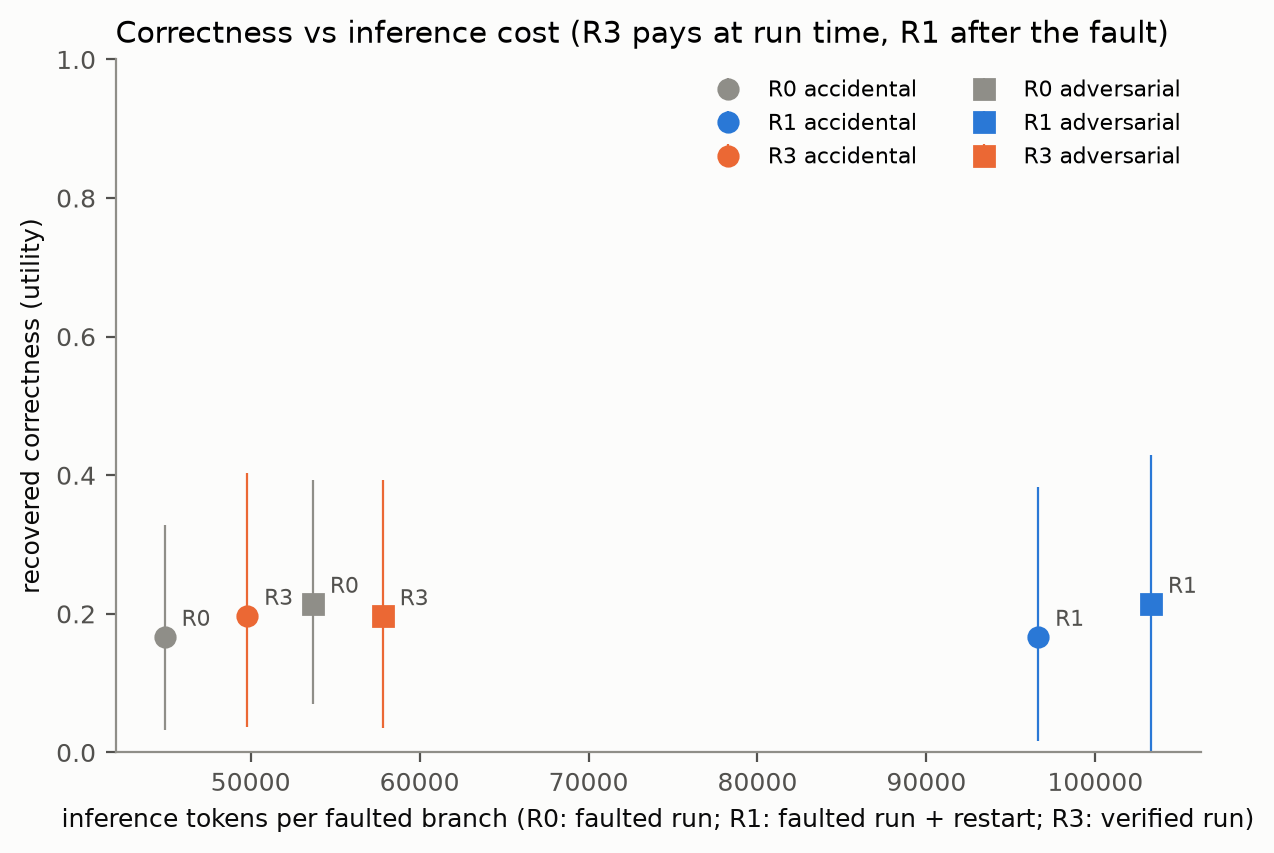
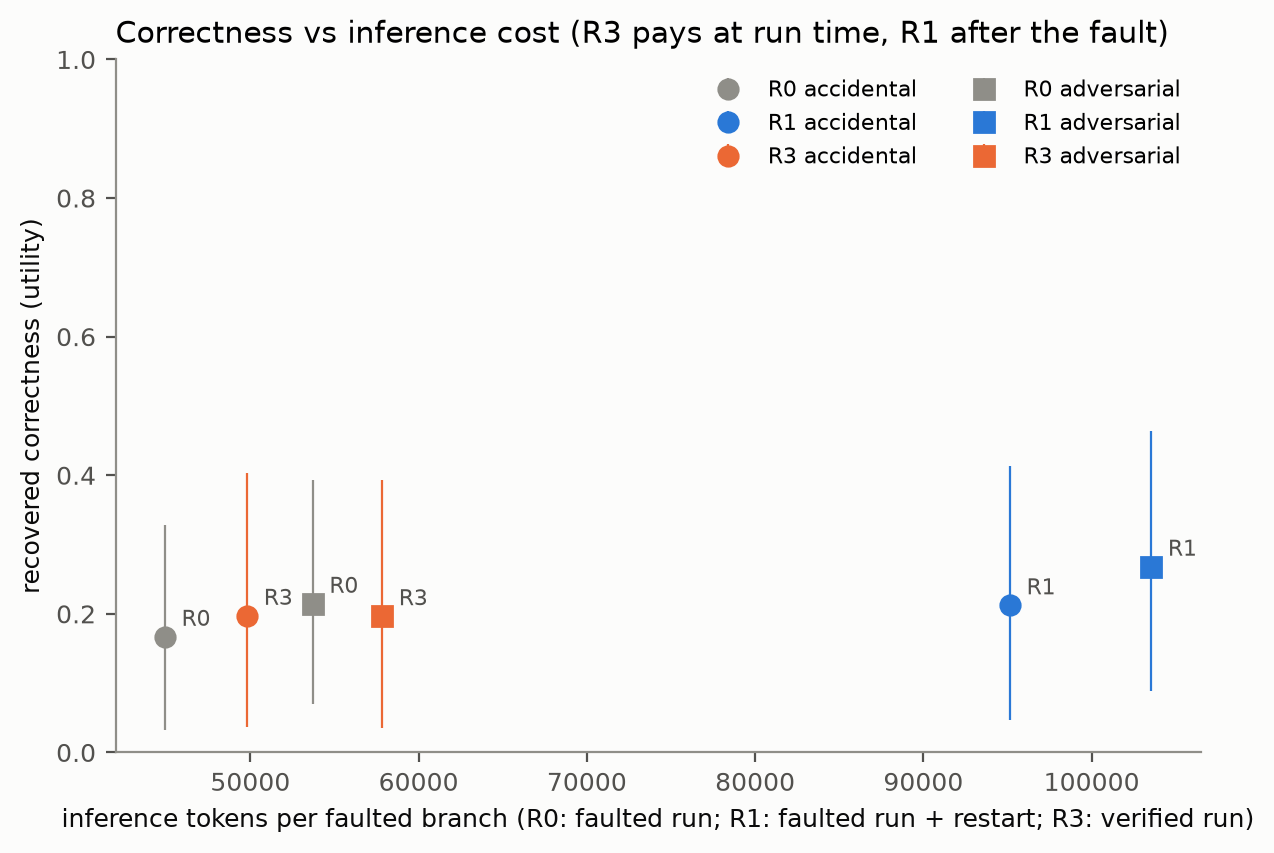
Add cross-family recovery results

diff --git a/data/tables/recovery_llama3.2-3b/recovery_condition.md b/data/tables/recovery_llama3.2-3b/recovery_condition.md
@@ -1,20 +1,20 @@
 | fault   | method   |   n |   utility |   utility_lo |   utility_hi |   residual_harm |   residual_harm_lo |   residual_harm_hi |   unrecoverable_share |   unrecoverable_share_lo |   unrecoverable_share_hi |   unrecoverable_mean |   compensable_share |   duplicates_mean |   duplicate_share |   recomp_calls |   recomp_tokens |   extra_tokens |   total_tokens |   llm_latency_s |
 |:--------|:---------|----:|----------:|-------------:|-------------:|----------------:|-------------------:|-------------------:|----------------------:|-------------------------:|-------------------------:|---------------------:|--------------------:|------------------:|------------------:|---------------:|----------------:|---------------:|---------------:|----------------:|
 | A1p_P   | R0       |  14 |      0.14 |         0.00 |         0.43 |            0.00 |               0.00 |               0.00 |                  0.00 |                     0.00 |                     0.00 |                 0.00 |                0.00 |              0.00 |              0.00 |           0.00 |            0.00 |           0.00 |       44652.07 |          nan    |
-| A1p_P   | R1       |  14 |      0.21 |         0.00 |         0.50 |            0.00 |               0.00 |               0.00 |                  0.00 |                     0.00 |                     0.00 |                 0.00 |                0.00 |              0.00 |              0.00 |          15.50 |        48605.43 |       48605.43 |       93257.50 |          nan    |
+| A1p_P   | R1       |  14 |      0.21 |         0.00 |         0.50 |            0.00 |               0.00 |               0.00 |                  0.00 |                     0.00 |                     0.00 |                 0.00 |                0.00 |              0.14 |              0.07 |          16.64 |        48813.57 |       48813.57 |       93465.64 |          nan    |
 | A1p_P   | R3       |  14 |      0.29 |         0.00 |         0.57 |            0.00 |               0.00 |               0.00 |                  0.14 |                     0.00 |                     0.43 |                 0.14 |                0.00 |              0.00 |              0.00 |           0.00 |            0.00 |        3498.21 |       47492.21 |           40.01 |
 | A1p_R   | R0       |  14 |      0.29 |         0.07 |         0.57 |            0.21 |               0.00 |               0.50 |                  0.29 |                     0.00 |                     0.71 |                 0.64 |                0.00 |              0.00 |              0.00 |           0.00 |            0.00 |           0.00 |       46877.36 |          nan    |
-| A1p_R   | R1       |  14 |      0.21 |         0.00 |         0.50 |            0.00 |               0.00 |               0.00 |                  0.29 |                     0.00 |                     0.71 |                 0.64 |                0.00 |              0.00 |              0.00 |          16.21 |        46986.71 |       46986.71 |       93864.07 |          nan    |
+| A1p_R   | R1       |  14 |      0.29 |         0.07 |         0.57 |            0.21 |               0.00 |               0.50 |                  0.29 |                     0.00 |                     0.71 |                 0.64 |                0.00 |              0.29 |              0.14 |          16.57 |        48545.50 |       48545.50 |       95422.86 |          nan    |
 | A1p_R   | R3       |  14 |      0.21 |         0.00 |         0.50 |            0.00 |               0.00 |               0.00 |                  0.14 |                     0.00 |                     0.43 |                 0.57 |                0.00 |              0.00 |              0.00 |           0.00 |            0.00 |        3807.86 |       53985.64 |           61.16 |
 | A2_R    | R0       |  10 |      0.10 |         0.00 |         0.30 |            0.00 |               0.00 |               0.00 |                  0.00 |                     0.00 |                     0.00 |                 0.00 |                0.00 |              0.00 |              0.00 |           0.00 |            0.00 |           0.00 |       48140.50 |          nan    |
-| A2_R    | R1       |  10 |      0.00 |         0.00 |         0.00 |            0.00 |               0.00 |               0.00 |                  0.00 |                     0.00 |                     0.00 |                 0.00 |                0.00 |              0.00 |              0.00 |          16.40 |        54724.20 |       54724.20 |      102864.70 |          nan    |
+| A2_R    | R1       |  10 |      0.10 |         0.00 |         0.30 |            0.00 |               0.00 |               0.00 |                  0.00 |                     0.00 |                     0.00 |                 0.00 |                0.00 |              0.00 |              0.00 |          16.30 |        54150.80 |       54150.80 |      102291.30 |          nan    |
 | A2_R    | R3       |  10 |      0.10 |         0.00 |         0.30 |            0.00 |               0.00 |               0.00 |                  0.00 |                     0.00 |                     0.00 |                 0.00 |                0.10 |              0.00 |              0.00 |           0.00 |            0.00 |        3066.50 |       50762.80 |           50.96 |
 | A4_R    | R0       |  28 |      0.14 |         0.00 |         0.32 |            0.00 |               0.00 |               0.00 |                  0.25 |                     0.07 |                     0.43 |                 0.54 |                0.11 |              0.00 |              0.00 |           0.00 |            0.00 |           0.00 |       42926.43 |          nan    |
-| A4_R    | R1       |  28 |      0.18 |         0.04 |         0.36 |            0.00 |               0.00 |               0.00 |                  0.25 |                     0.07 |                     0.43 |                 0.54 |                0.11 |              0.00 |              0.00 |          16.07 |        54558.00 |       54558.00 |       97484.43 |          nan    |
+| A4_R    | R1       |  28 |      0.21 |         0.07 |         0.39 |            0.00 |               0.00 |               0.00 |                  0.25 |                     0.07 |                     0.43 |                 0.54 |                0.11 |              0.14 |              0.07 |          15.89 |        50362.36 |       50362.36 |       93288.79 |          nan    |
 | A4_R    | R3       |  28 |      0.18 |         0.04 |         0.36 |            0.00 |               0.00 |               0.00 |                  0.25 |                     0.07 |                     0.43 |                 0.50 |                0.14 |              0.00 |              0.00 |           0.00 |            0.00 |        2845.75 |       48540.43 |           57.18 |
 | B1_Et   | R0       |  28 |      0.21 |         0.00 |         0.43 |            0.18 |               0.04 |               0.32 |                  0.18 |                     0.00 |                     0.39 |                 0.29 |                0.11 |              0.00 |              0.00 |           0.00 |            0.00 |           0.00 |       57537.75 |          nan    |
-| B1_Et   | R1       |  28 |      0.21 |         0.00 |         0.43 |            0.00 |               0.00 |               0.00 |                  0.18 |                     0.00 |                     0.39 |                 0.29 |                0.11 |              0.00 |              0.00 |          15.39 |        48316.29 |       48316.29 |      105854.04 |          nan    |
+| B1_Et   | R1       |  28 |      0.32 |         0.11 |         0.57 |            0.18 |               0.04 |               0.32 |                  0.18 |                     0.00 |                     0.39 |                 0.29 |                0.11 |              0.04 |              0.04 |          15.68 |        49803.50 |       49803.50 |      107341.25 |          nan    |
 | B1_Et   | R3       |  28 |      0.18 |         0.00 |         0.36 |            0.21 |               0.07 |               0.39 |                  0.25 |                     0.04 |                     0.46 |                 0.57 |                0.11 |              0.00 |              0.00 |           0.00 |            0.00 |        4619.54 |       60743.25 |           55.60 |
 | B2_R    | R0       |  28 |      0.21 |         0.00 |         0.43 |            0.04 |               0.00 |               0.11 |                  0.14 |                     0.00 |                     0.29 |                 0.25 |                0.11 |              0.00 |              0.00 |           0.00 |            0.00 |           0.00 |       49872.50 |          nan    |
-| B2_R    | R1       |  28 |      0.21 |         0.00 |         0.43 |            0.00 |               0.00 |               0.00 |                  0.14 |                     0.00 |                     0.29 |                 0.25 |                0.11 |              0.00 |              0.00 |          15.82 |        50893.96 |       50893.96 |      100766.46 |          nan    |
+| B2_R    | R1       |  28 |      0.21 |         0.04 |         0.43 |            0.04 |               0.00 |               0.11 |                  0.14 |                     0.00 |                     0.29 |                 0.25 |                0.11 |              0.11 |              0.07 |          15.71 |        49871.86 |       49871.86 |       99744.36 |          nan    |
 | B2_R    | R3       |  28 |      0.21 |         0.00 |         0.43 |            0.11 |               0.00 |               0.29 |                  0.18 |                     0.00 |                     0.36 |                 0.29 |                0.14 |              0.00 |              0.00 |           0.00 |            0.00 |        4130.29 |       54921.11 |           60.35 |

diff --git a/data/tables/recovery_llama3.2-3b/recovery_family_stage_mode.md b/data/tables/recovery_llama3.2-3b/recovery_family_stage_mode.md
@@ -1,17 +1,17 @@
 | family      | point   | mode    | method   |   n |   utility |   utility_lo |   utility_hi |   residual_harm |   residual_harm_lo |   residual_harm_hi |   unrecoverable_share |   unrecoverable_share_lo |   unrecoverable_share_hi |   unrecoverable_mean |   compensable_share |   duplicates_mean |   duplicate_share |   recomp_calls |   recomp_tokens |   extra_tokens |   total_tokens |   llm_latency_s |
 |:------------|:--------|:--------|:---------|----:|----------:|-------------:|-------------:|----------------:|-------------------:|-------------------:|----------------------:|-------------------------:|-------------------------:|---------------------:|--------------------:|------------------:|------------------:|---------------:|----------------:|---------------:|---------------:|----------------:|
 | accidental  | P.out   | message | R0       |  14 |      0.14 |         0.00 |         0.43 |            0.00 |               0.00 |               0.00 |                  0.00 |                     0.00 |                     0.00 |                 0.00 |                0.00 |              0.00 |              0.00 |           0.00 |            0.00 |           0.00 |       44652.07 |          nan    |
-| accidental  | P.out   | message | R1       |  14 |      0.21 |         0.00 |         0.50 |            0.00 |               0.00 |               0.00 |                  0.00 |                     0.00 |                     0.00 |                 0.00 |                0.00 |              0.00 |              0.00 |          15.50 |        48605.43 |       48605.43 |       93257.50 |          nan    |
+| accidental  | P.out   | message | R1       |  14 |      0.21 |         0.00 |         0.50 |            0.00 |               0.00 |               0.00 |                  0.00 |                     0.00 |                     0.00 |                 0.00 |                0.00 |              0.14 |              0.07 |          16.64 |        48813.57 |       48813.57 |       93465.64 |          nan    |
 | accidental  | P.out   | message | R3       |  14 |      0.29 |         0.00 |         0.57 |            0.00 |               0.00 |               0.00 |                  0.14 |                     0.00 |                     0.43 |                 0.14 |                0.00 |              0.00 |              0.00 |           0.00 |            0.00 |        3498.21 |       47492.21 |           40.01 |
 | accidental  | R.out   | message | R0       |  24 |      0.21 |         0.04 |         0.43 |            0.12 |               0.00 |               0.35 |                  0.17 |                     0.00 |                     0.42 |                 0.38 |                0.00 |              0.00 |              0.00 |           0.00 |            0.00 |           0.00 |       47403.67 |          nan    |
-| accidental  | R.out   | message | R1       |  24 |      0.12 |         0.00 |         0.35 |            0.00 |               0.00 |               0.00 |                  0.17 |                     0.00 |                     0.42 |                 0.38 |                0.00 |              0.00 |              0.00 |          16.29 |        50210.67 |       50210.67 |       97614.33 |          nan    |
+| accidental  | R.out   | message | R1       |  24 |      0.21 |         0.04 |         0.44 |            0.12 |               0.00 |               0.35 |                  0.17 |                     0.00 |                     0.42 |                 0.38 |                0.00 |              0.17 |              0.08 |          16.46 |        50881.04 |       50881.04 |       98284.71 |          nan    |
 | accidental  | R.out   | message | R3       |  24 |      0.17 |         0.00 |         0.42 |            0.00 |               0.00 |               0.00 |                  0.08 |                     0.00 |                     0.30 |                 0.33 |                0.04 |              0.00 |              0.00 |           0.00 |            0.00 |        3498.96 |       52642.79 |           56.91 |
 | accidental  | R.start | message | R0       |  28 |      0.14 |         0.00 |         0.32 |            0.00 |               0.00 |               0.00 |                  0.25 |                     0.07 |                     0.43 |                 0.54 |                0.11 |              0.00 |              0.00 |           0.00 |            0.00 |           0.00 |       42926.43 |          nan    |
-| accidental  | R.start | message | R1       |  28 |      0.18 |         0.04 |         0.36 |            0.00 |               0.00 |               0.00 |                  0.25 |                     0.07 |                     0.43 |                 0.54 |                0.11 |              0.00 |              0.00 |          16.07 |        54558.00 |       54558.00 |       97484.43 |          nan    |
+| accidental  | R.start | message | R1       |  28 |      0.21 |         0.07 |         0.39 |            0.00 |               0.00 |               0.00 |                  0.25 |                     0.07 |                     0.43 |                 0.54 |                0.11 |              0.14 |              0.07 |          15.89 |        50362.36 |       50362.36 |       93288.79 |          nan    |
 | accidental  | R.start | message | R3       |  28 |      0.18 |         0.04 |         0.36 |            0.00 |               0.00 |               0.00 |                  0.25 |                     0.07 |                     0.43 |                 0.50 |                0.14 |              0.00 |              0.00 |           0.00 |            0.00 |        2845.75 |       48540.43 |           57.18 |
 | adversarial | E.tool  | message | R0       |  28 |      0.21 |         0.00 |         0.43 |            0.18 |               0.04 |               0.32 |                  0.18 |                     0.00 |                     0.39 |                 0.29 |                0.11 |              0.00 |              0.00 |           0.00 |            0.00 |           0.00 |       57537.75 |          nan    |
-| adversarial | E.tool  | message | R1       |  28 |      0.21 |         0.00 |         0.43 |            0.00 |               0.00 |               0.00 |                  0.18 |                     0.00 |                     0.39 |                 0.29 |                0.11 |              0.00 |              0.00 |          15.39 |        48316.29 |       48316.29 |      105854.04 |          nan    |
+| adversarial | E.tool  | message | R1       |  28 |      0.32 |         0.11 |         0.57 |            0.18 |               0.04 |               0.32 |                  0.18 |                     0.00 |                     0.39 |                 0.29 |                0.11 |              0.04 |              0.04 |          15.68 |        49803.50 |       49803.50 |      107341.25 |          nan    |
 | adversarial | E.tool  | message | R3       |  28 |      0.18 |         0.00 |         0.36 |            0.21 |               0.07 |               0.39 |                  0.25 |                     0.04 |                     0.46 |                 0.57 |                0.11 |              0.00 |              0.00 |           0.00 |            0.00 |        4619.54 |       60743.25 |           55.60 |
 | adversarial | R.out   | message | R0       |  28 |      0.21 |         0.00 |         0.43 |            0.04 |               0.00 |               0.11 |                  0.14 |                     0.00 |                     0.29 |                 0.25 |                0.11 |              0.00 |              0.00 |           0.00 |            0.00 |           0.00 |       49872.50 |          nan    |
-| adversarial | R.out   | message | R1       |  28 |      0.21 |         0.00 |         0.43 |            0.00 |               0.00 |               0.00 |                  0.14 |                     0.00 |                     0.29 |                 0.25 |                0.11 |              0.00 |              0.00 |          15.82 |        50893.96 |       50893.96 |      100766.46 |          nan    |
+| adversarial | R.out   | message | R1       |  28 |      0.21 |         0.04 |         0.43 |            0.04 |               0.00 |               0.11 |                  0.14 |                     0.00 |                     0.29 |                 0.25 |                0.11 |              0.11 |              0.07 |          15.71 |        49871.86 |       49871.86 |       99744.36 |          nan    |
 | adversarial | R.out   | message | R3       |  28 |      0.21 |         0.00 |         0.43 |            0.11 |               0.00 |               0.29 |                  0.18 |                     0.00 |                     0.36 |                 0.29 |                0.14 |              0.00 |              0.00 |           0.00 |            0.00 |        4130.29 |       54921.11 |           60.35 |

diff --git a/data/tables/recovery_llama3.2-3b/recovery_family_mode.md b/data/tables/recovery_llama3.2-3b/recovery_family_mode.md
@@ -1,8 +1,8 @@
 | family      | mode    | method   |   n |   utility |   utility_lo |   utility_hi |   residual_harm |   residual_harm_lo |   residual_harm_hi |   unrecoverable_share |   unrecoverable_share_lo |   unrecoverable_share_hi |   unrecoverable_mean |   compensable_share |   duplicates_mean |   duplicate_share |   recomp_calls |   recomp_tokens |   extra_tokens |   total_tokens |   llm_latency_s |
 |:------------|:--------|:---------|----:|----------:|-------------:|-------------:|----------------:|-------------------:|-------------------:|----------------------:|-------------------------:|-------------------------:|---------------------:|--------------------:|------------------:|------------------:|---------------:|----------------:|---------------:|---------------:|----------------:|
 | accidental  | message | R0       |  66 |      0.17 |         0.03 |         0.33 |            0.05 |               0.00 |               0.11 |                  0.17 |                     0.04 |                     0.31 |                 0.36 |                0.05 |              0.00 |              0.00 |           0.00 |            0.00 |           0.00 |       44920.56 |          nan    |
-| accidental  | message | R1       |  66 |      0.17 |         0.02 |         0.38 |            0.00 |               0.00 |               0.00 |                  0.17 |                     0.04 |                     0.31 |                 0.36 |                0.05 |              0.00 |              0.00 |          16.03 |        51714.48 |       51714.48 |       96635.05 |          nan    |
+| accidental  | message | R1       |  66 |      0.21 |         0.05 |         0.41 |            0.05 |               0.00 |               0.11 |                  0.17 |                     0.04 |                     0.31 |                 0.36 |                0.05 |              0.15 |              0.08 |          16.26 |        50222.44 |       50222.44 |       95143.00 |          nan    |
 | accidental  | message | R3       |  66 |      0.20 |         0.04 |         0.40 |            0.00 |               0.00 |               0.00 |                  0.17 |                     0.03 |                     0.33 |                 0.36 |                0.08 |              0.00 |              0.00 |           0.00 |            0.00 |        3221.68 |       49809.85 |           53.44 |
 | adversarial | message | R0       |  56 |      0.21 |         0.07 |         0.39 |            0.11 |               0.02 |               0.21 |                  0.16 |                     0.04 |                     0.30 |                 0.27 |                0.11 |              0.00 |              0.00 |           0.00 |            0.00 |           0.00 |       53705.12 |          nan    |
-| adversarial | message | R1       |  56 |      0.21 |         0.00 |         0.43 |            0.00 |               0.00 |               0.00 |                  0.16 |                     0.04 |                     0.30 |                 0.27 |                0.11 |              0.00 |              0.00 |          15.61 |        49605.12 |       49605.12 |      103310.25 |          nan    |
+| adversarial | message | R1       |  56 |      0.27 |         0.09 |         0.46 |            0.11 |               0.02 |               0.21 |                  0.16 |                     0.04 |                     0.30 |                 0.27 |                0.11 |              0.07 |              0.05 |          15.70 |        49837.68 |       49837.68 |      103542.80 |          nan    |
 | adversarial | message | R3       |  56 |      0.20 |         0.04 |         0.39 |            0.16 |               0.04 |               0.30 |                  0.21 |                     0.04 |                     0.39 |                 0.43 |                0.12 |              0.00 |              0.00 |           0.00 |            0.00 |        4374.91 |       57832.18 |           57.98 |

diff --git a/data/tables/recovery_llama3.2-3b/recovery_family.md b/data/tables/recovery_llama3.2-3b/recovery_family.md
@@ -1,8 +1,8 @@
 | family      | method   |   n |   utility |   utility_lo |   utility_hi |   residual_harm |   residual_harm_lo |   residual_harm_hi |   unrecoverable_share |   unrecoverable_share_lo |   unrecoverable_share_hi |   unrecoverable_mean |   compensable_share |   duplicates_mean |   duplicate_share |   recomp_calls |   recomp_tokens |   extra_tokens |   total_tokens |   llm_latency_s |
 |:------------|:---------|----:|----------:|-------------:|-------------:|----------------:|-------------------:|-------------------:|----------------------:|-------------------------:|-------------------------:|---------------------:|--------------------:|------------------:|------------------:|---------------:|----------------:|---------------:|---------------:|----------------:|
 | accidental  | R0       |  66 |      0.17 |         0.03 |         0.33 |            0.05 |               0.00 |               0.11 |                  0.17 |                     0.04 |                     0.31 |                 0.36 |                0.05 |              0.00 |              0.00 |           0.00 |            0.00 |           0.00 |       44920.56 |          nan    |
-| accidental  | R1       |  66 |      0.17 |         0.02 |         0.38 |            0.00 |               0.00 |               0.00 |                  0.17 |                     0.04 |                     0.31 |                 0.36 |                0.05 |              0.00 |              0.00 |          16.03 |        51714.48 |       51714.48 |       96635.05 |          nan    |
+| accidental  | R1       |  66 |      0.21 |         0.05 |         0.41 |            0.05 |               0.00 |               0.11 |                  0.17 |                     0.04 |                     0.31 |                 0.36 |                0.05 |              0.15 |              0.08 |          16.26 |        50222.44 |       50222.44 |       95143.00 |          nan    |
 | accidental  | R3       |  66 |      0.20 |         0.04 |         0.40 |            0.00 |               0.00 |               0.00 |                  0.17 |                     0.03 |                     0.33 |                 0.36 |                0.08 |              0.00 |              0.00 |           0.00 |            0.00 |        3221.68 |       49809.85 |           53.44 |
 | adversarial | R0       |  56 |      0.21 |         0.07 |         0.39 |            0.11 |               0.02 |               0.21 |                  0.16 |                     0.04 |                     0.30 |                 0.27 |                0.11 |              0.00 |              0.00 |           0.00 |            0.00 |           0.00 |       53705.12 |          nan    |
-| adversarial | R1       |  56 |      0.21 |         0.00 |         0.43 |            0.00 |               0.00 |               0.00 |                  0.16 |                     0.04 |                     0.30 |                 0.27 |                0.11 |              0.00 |              0.00 |          15.61 |        49605.12 |       49605.12 |      103310.25 |          nan    |
+| adversarial | R1       |  56 |      0.27 |         0.09 |         0.46 |            0.11 |               0.02 |               0.21 |                  0.16 |                     0.04 |                     0.30 |                 0.27 |                0.11 |              0.07 |              0.05 |          15.70 |        49837.68 |       49837.68 |      103542.80 |          nan    |
 | adversarial | R3       |  56 |      0.20 |         0.04 |         0.39 |            0.16 |               0.04 |               0.30 |                  0.21 |                     0.04 |                     0.39 |                 0.43 |                0.12 |              0.00 |              0.00 |           0.00 |            0.00 |        4374.91 |       57832.18 |           57.98 |

diff --git a/data/tables/recovery_llama3.2-3b/recovery_delta_family_stage.md b/data/tables/recovery_llama3.2-3b/recovery_delta_family_stage.md
@@ -1,22 +1,22 @@
-| family      | point   | method   | metric   |   n |   delta_vs_R0 |    lo |    hi |
-|:------------|:--------|:---------|:---------|----:|--------------:|------:|------:|
-| accidental  | P.out   | R1       | utility  |  14 |          0.07 | -0.14 |  0.43 |
-| accidental  | P.out   | R1       | harm     |  14 |          0.00 |  0.00 |  0.00 |
-| accidental  | R.out   | R1       | utility  |  24 |         -0.08 | -0.25 |  0.10 |
-| accidental  | R.out   | R1       | harm     |  24 |         -0.12 | -0.35 |  0.00 |
-| accidental  | R.start | R1       | utility  |  28 |          0.04 | -0.07 |  0.14 |
-| accidental  | R.start | R1       | harm     |  28 |          0.00 |  0.00 |  0.00 |
-| adversarial | E.tool  | R1       | utility  |  28 |          0.00 | -0.21 |  0.21 |
-| adversarial | E.tool  | R1       | harm     |  28 |         -0.18 | -0.32 | -0.04 |
-| adversarial | R.out   | R1       | utility  |  28 |          0.00 | -0.21 |  0.21 |
-| adversarial | R.out   | R1       | harm     |  28 |         -0.04 | -0.11 |  0.00 |
-| accidental  | P.out   | R3       | utility  |  14 |          0.14 |  0.00 |  0.43 |
-| accidental  | P.out   | R3       | harm     |  14 |          0.00 |  0.00 |  0.00 |
-| accidental  | R.out   | R3       | utility  |  24 |         -0.04 | -0.12 |  0.00 |
-| accidental  | R.out   | R3       | harm     |  24 |         -0.12 | -0.35 |  0.00 |
-| accidental  | R.start | R3       | utility  |  28 |          0.04 |  0.00 |  0.11 |
-| accidental  | R.start | R3       | harm     |  28 |          0.00 |  0.00 |  0.00 |
-| adversarial | E.tool  | R3       | utility  |  28 |         -0.04 | -0.11 |  0.00 |
-| adversarial | E.tool  | R3       | harm     |  28 |          0.04 | -0.11 |  0.21 |
-| adversarial | R.out   | R3       | utility  |  28 |          0.00 |  0.00 |  0.00 |
-| adversarial | R.out   | R3       | harm     |  28 |          0.07 |  0.00 |  0.18 |
+| family      | point   | method   | metric   |   n |   delta_vs_R0 |    lo |   hi |
+|:------------|:--------|:---------|:---------|----:|--------------:|------:|-----:|
+| accidental  | P.out   | R1       | utility  |  14 |          0.07 | -0.14 | 0.43 |
+| accidental  | P.out   | R1       | harm     |  14 |          0.00 |  0.00 | 0.00 |
+| accidental  | R.out   | R1       | utility  |  24 |          0.00 | -0.10 | 0.14 |
+| accidental  | R.out   | R1       | harm     |  24 |          0.00 |  0.00 | 0.00 |
+| accidental  | R.start | R1       | utility  |  28 |          0.07 |  0.00 | 0.18 |
+| accidental  | R.start | R1       | harm     |  28 |          0.00 |  0.00 | 0.00 |
+| adversarial | E.tool  | R1       | utility  |  28 |          0.11 |  0.00 | 0.29 |
+| adversarial | E.tool  | R1       | harm     |  28 |          0.00 |  0.00 | 0.00 |
+| adversarial | R.out   | R1       | utility  |  28 |          0.00 | -0.11 | 0.11 |
+| adversarial | R.out   | R1       | harm     |  28 |          0.00 |  0.00 | 0.00 |
+| accidental  | P.out   | R3       | utility  |  14 |          0.14 |  0.00 | 0.43 |
+| accidental  | P.out   | R3       | harm     |  14 |          0.00 |  0.00 | 0.00 |
+| accidental  | R.out   | R3       | utility  |  24 |         -0.04 | -0.12 | 0.00 |
+| accidental  | R.out   | R3       | harm     |  24 |         -0.12 | -0.35 | 0.00 |
+| accidental  | R.start | R3       | utility  |  28 |          0.04 |  0.00 | 0.11 |
+| accidental  | R.start | R3       | harm     |  28 |          0.00 |  0.00 | 0.00 |
+| adversarial | E.tool  | R3       | utility  |  28 |         -0.04 | -0.11 | 0.00 |
+| adversarial | E.tool  | R3       | harm     |  28 |          0.04 | -0.11 | 0.21 |
+| adversarial | R.out   | R3       | utility  |  28 |          0.00 |  0.00 | 0.00 |
+| adversarial | R.out   | R3       | harm     |  28 |          0.07 |  0.00 | 0.18 |

diff --git a/data/tables/recovery_llama3.2-3b/recovery_delta_family.md b/data/tables/recovery_llama3.2-3b/recovery_delta_family.md
@@ -1,10 +1,10 @@
-| family      | method   | metric   |   n |   delta_vs_R0 |    lo |    hi |
-|:------------|:---------|:---------|----:|--------------:|------:|------:|
-| accidental  | R1       | utility  |  66 |          0.00 | -0.11 |  0.15 |
-| accidental  | R1       | harm     |  66 |         -0.05 | -0.11 |  0.00 |
-| adversarial | R1       | utility  |  56 |          0.00 | -0.14 |  0.18 |
-| adversarial | R1       | harm     |  56 |         -0.11 | -0.21 | -0.02 |
-| accidental  | R3       | utility  |  66 |          0.03 | -0.03 |  0.12 |
-| accidental  | R3       | harm     |  66 |         -0.05 | -0.11 |  0.00 |
-| adversarial | R3       | utility  |  56 |         -0.02 | -0.05 |  0.00 |
-| adversarial | R3       | harm     |  56 |          0.05 | -0.04 |  0.16 |
+| family      | method   | metric   |   n |   delta_vs_R0 |    lo |   hi |
+|:------------|:---------|:---------|----:|--------------:|------:|-----:|
+| accidental  | R1       | utility  |  66 |          0.05 | -0.03 | 0.16 |
+| accidental  | R1       | harm     |  66 |          0.00 |  0.00 | 0.00 |
+| adversarial | R1       | utility  |  56 |          0.05 |  0.00 | 0.16 |
+| adversarial | R1       | harm     |  56 |          0.00 |  0.00 | 0.00 |
+| accidental  | R3       | utility  |  66 |          0.03 | -0.03 | 0.12 |
+| accidental  | R3       | harm     |  66 |         -0.05 | -0.11 | 0.00 |
+| adversarial | R3       | utility  |  56 |         -0.02 | -0.05 | 0.00 |
+| adversarial | R3       | harm     |  56 |          0.05 | -0.04 | 0.16 |
